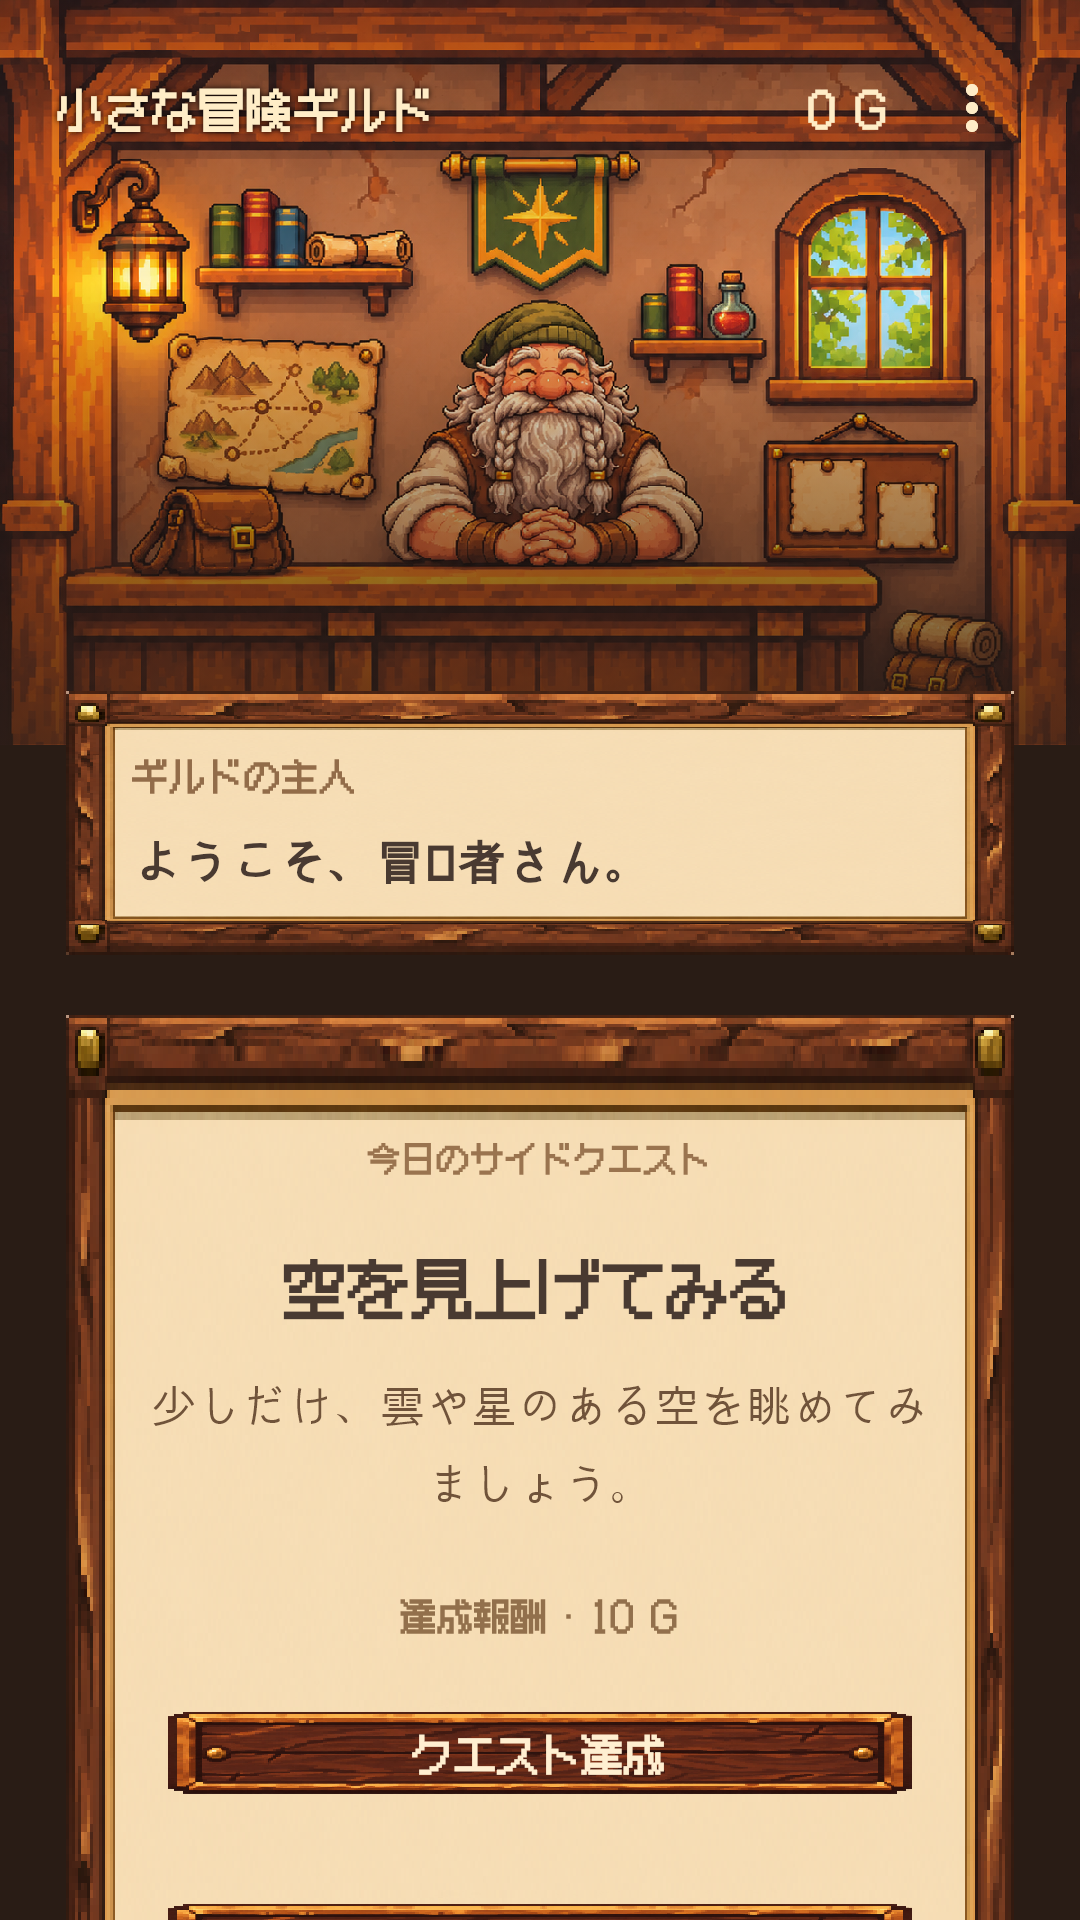
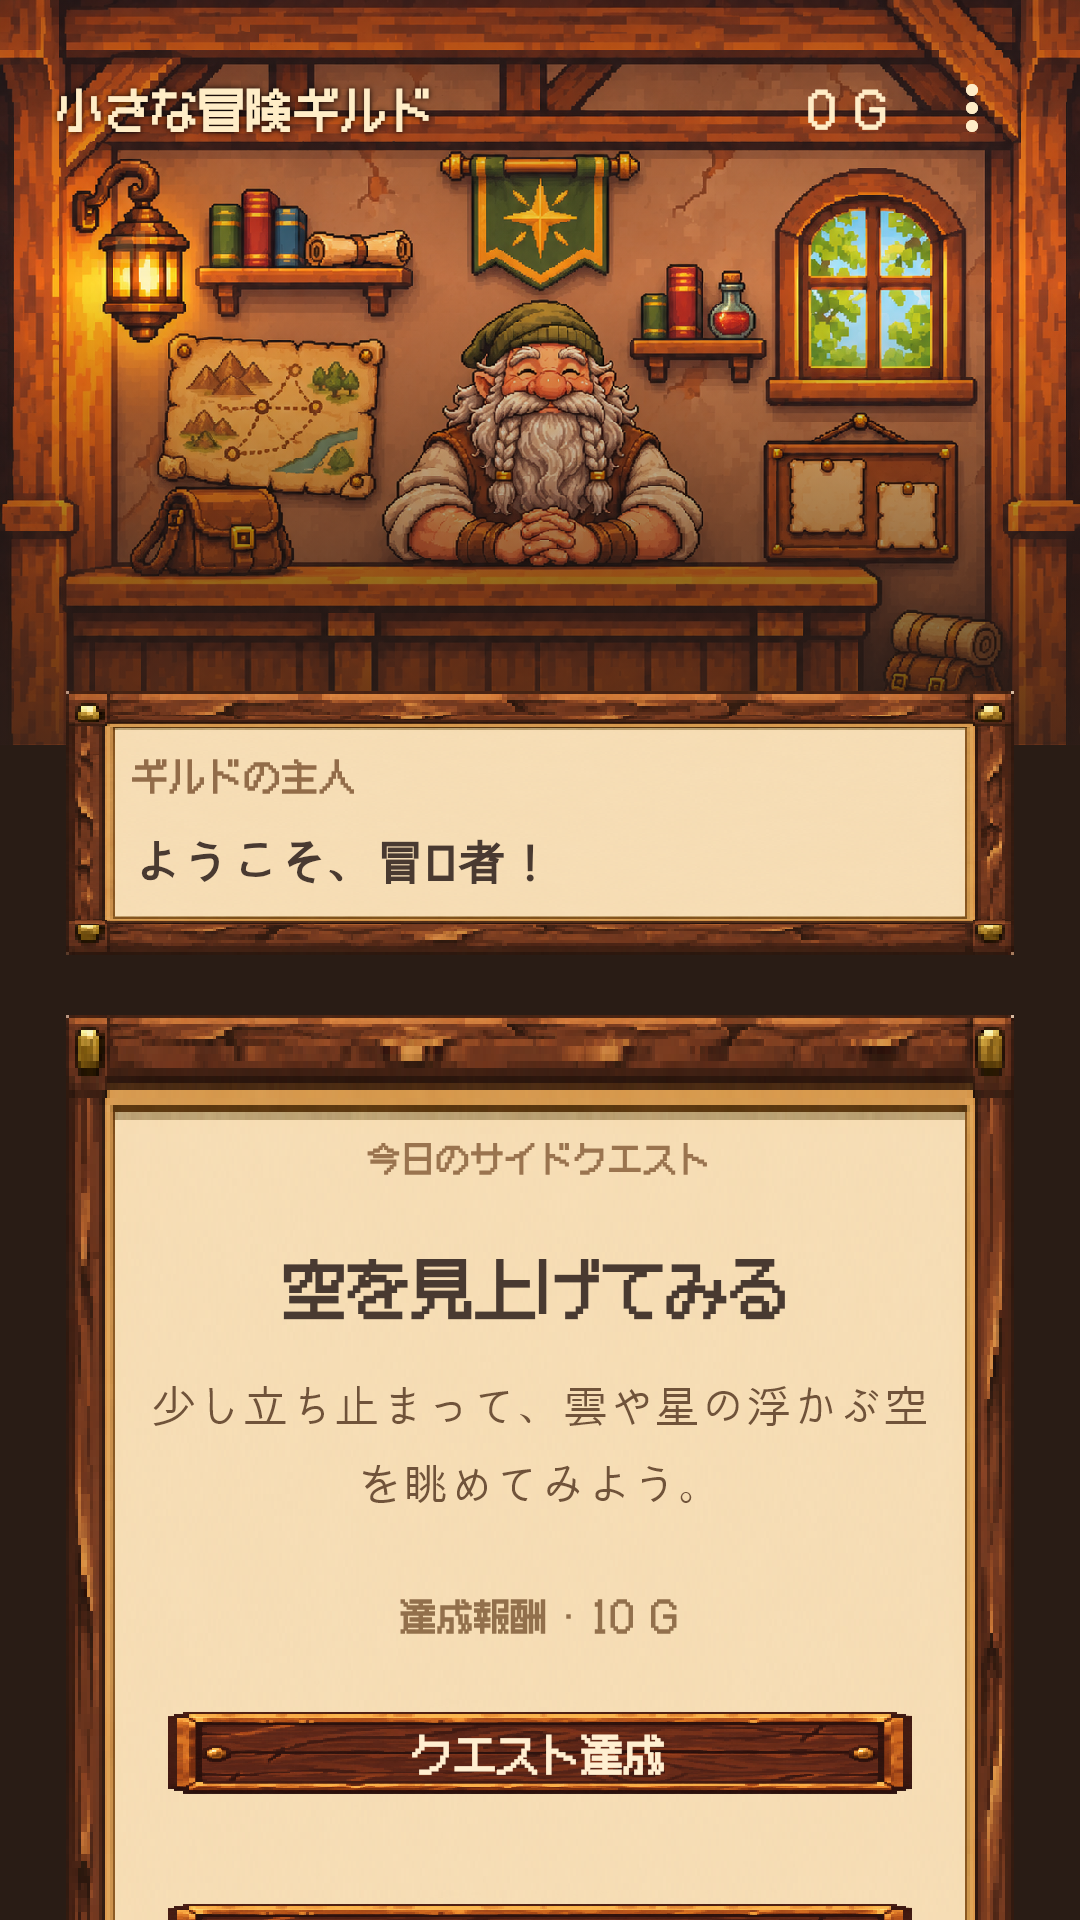
Use casual guild and quest dialogue

Changed region(s): [[0.2139, 0.7188, 0.8556, 0.7812], [0.4583, 0.4375, 0.55, 0.4688]]

diff --git a/lib/translations.dart b/lib/translations.dart
@@ -57,26 +57,26 @@ const translations = <String, Map<String, String>>{
     '기록을 저장하지 못했어요. 다시 시도해 주세요.':
         'Could not save your progress. Please try again.',
     '꾸미기 기록을 저장하지 못했어요.': 'Could not save your decorations.',
-    '어서 오세요, 모험가님.': 'Welcome, adventurer.',
+    '왔구나, 모험가!': 'Welcome, adventurer.',
     '잠시 하늘을 올려다보기': 'Look up at the sky',
-    '하루 중 잠깐, 구름이나 별이 있는 하늘을 바라보세요.':
+    '잠시 걸음을 멈추고 구름이나 별이 떠 있는 하늘을 바라봐.':
         'Take a moment to watch the clouds or stars.',
     '오래된 사진 꺼내 보기': 'Revisit an old photo',
-    '마음에 남아 있는 사진 한 장을 들여다보세요.':
+    '마음에 남은 오래된 사진 한 장을 꺼내 천천히 들여다봐.':
         'Spend a moment with a photo that means something to you.',
     '안부 한 줄 보내기': 'Send a little hello',
-    '생각나는 사람에게 가볍게 안부를 전해보세요.': 'Send a short hello to someone on your mind.',
-    '오, 새로운 모험가로군! 어서 오게. 여긴 바쁜 하루 속 작은 모험을 찾는 길드라네.':
+    '문득 떠오르는 사람에게 가볍게 안부를 전해 봐.': 'Send a short hello to someone on your mind.',
+    '오, 새로운 모험가로구나! 어서 와. 여긴 바쁜 하루 속 작은 모험을 찾는 길드야.':
         'Ah, a new adventurer! Welcome. This guild seeks little adventures in busy days.',
-    '매일 양피지 하나를 건네주지. 그 안에는 자네가 오늘 만날 수 있는 작은 의뢰가 적혀 있다네.':
+    '매일 양피지 하나를 건네줄게. 그 안에는 네가 오늘 만날 수 있는 작은 의뢰가 적혀 있어.':
         'Each day I’ll offer one scroll, holding one small quest for you to discover.',
-    '의뢰를 마쳤다면 퀘스트 완료를, 오늘은 못 했다면 퀘스트 실패를 눌러 주게. 못 해도 괜찮네. 길드는 언제나 열려 있으니까.':
+    '의뢰를 마쳤다면 퀘스트 완료를, 오늘은 못 했다면 퀘스트 실패를 눌러 줘. 못 해도 괜찮아. 길드는 언제나 열려 있으니까.':
         'Report your quest as complete or incomplete. If today is not the day, that’s fine. The guild is always open.',
-    '정말 마쳤는지 어떻게 아느냐고? 허허, 우리 길드에는 감시 마법이 없다네. 자네의 보고를 믿는 게 이곳의 오래된 규칙이지.':
+    '정말 마쳤는지 어떻게 아냐고? 허허, 우리 길드에는 감시 마법이 없어. 네 보고를 믿는 게 이곳의 오래된 규칙이지.':
         'How do we know you finished? Ha! We have no watching spells. Trusting your word is an old guild tradition.',
-    '의뢰를 완료하면 골드를 주겠네. 길드 메뉴의 꾸미기에서 모은 골드로 장식을 사고, 이곳에 놓을 수 있다네.':
+    '의뢰를 완료하면 골드를 줄게. 길드 메뉴의 꾸미기에서 모은 골드로 장식을 사고, 이곳에 놓을 수 있어.':
         'Complete a quest to earn gold. Use it in the guild menu to buy decorations and make this place your own.',
-    '자, 서두를 것 없네. 양피지를 열고 오늘의 작은 모험을 만나 보게나!':
+    '자, 서두를 필요 없어. 양피지를 열고 오늘의 작은 모험을 만나 봐!':
         'Now, no need to hurry. Open the scroll and meet today’s little adventure!',
   },
   'ja': {
@@ -129,24 +129,24 @@ const translations = <String, Map<String, String>>{
     '안내 진행 상태를 저장하지 못했어요. 다시 시도해 주세요.': '進行状況を保存できませんでした。もう一度お試しください。',
     '기록을 저장하지 못했어요. 다시 시도해 주세요.': '記録を保存できませんでした。もう一度お試しください。',
     '꾸미기 기록을 저장하지 못했어요.': '飾りの記録を保存できませんでした。',
-    '어서 오세요, 모험가님.': 'ようこそ、冒険者さん。',
+    '왔구나, 모험가!': 'ようこそ、冒険者！',
     '잠시 하늘을 올려다보기': '空を見上げてみる',
-    '하루 중 잠깐, 구름이나 별이 있는 하늘을 바라보세요.': '少しだけ、雲や星のある空を眺めてみましょう。',
+    '잠시 걸음을 멈추고 구름이나 별이 떠 있는 하늘을 바라봐.': '少し立ち止まって、雲や星の浮かぶ空を眺めてみよう。',
     '오래된 사진 꺼내 보기': '昔の写真を見てみる',
-    '마음에 남아 있는 사진 한 장을 들여다보세요.': '心に残る写真を一枚、眺めてみましょう。',
+    '마음에 남은 오래된 사진 한 장을 꺼내 천천히 들여다봐.': '心に残る古い写真を一枚、ゆっくり眺めてみよう。',
     '안부 한 줄 보내기': 'ひとこと挨拶を送る',
-    '생각나는 사람에게 가볍게 안부를 전해보세요.': '思い浮かんだ人に、気軽に挨拶を送りましょう。',
-    '오, 새로운 모험가로군! 어서 오게. 여긴 바쁜 하루 속 작은 모험을 찾는 길드라네.':
+    '문득 떠오르는 사람에게 가볍게 안부를 전해 봐.': 'ふと思い浮かんだ人に、気軽に挨拶を送ってみよう。',
+    '오, 새로운 모험가로구나! 어서 와. 여긴 바쁜 하루 속 작은 모험을 찾는 길드야.':
         'おお、新しい冒険者じゃな！ようこそ。ここは忙しい日々に小さな冒険を探すギルドじゃ。',
-    '매일 양피지 하나를 건네주지. 그 안에는 자네가 오늘 만날 수 있는 작은 의뢰가 적혀 있다네.':
+    '매일 양피지 하나를 건네줄게. 그 안에는 네가 오늘 만날 수 있는 작은 의뢰가 적혀 있어.':
         '毎日、巻物を一つ渡そう。そこには今日出会える小さな依頼が書かれておる。',
-    '의뢰를 마쳤다면 퀘스트 완료를, 오늘은 못 했다면 퀘스트 실패를 눌러 주게. 못 해도 괜찮네. 길드는 언제나 열려 있으니까.':
+    '의뢰를 마쳤다면 퀘스트 완료를, 오늘은 못 했다면 퀘스트 실패를 눌러 줘. 못 해도 괜찮아. 길드는 언제나 열려 있으니까.':
         '依頼を終えたら達成を、できなかったら未達成を押してくれ。できなくても大丈夫。ギルドはいつでも開いておる。',
-    '정말 마쳤는지 어떻게 아느냐고? 허허, 우리 길드에는 감시 마법이 없다네. 자네의 보고를 믿는 게 이곳의 오래된 규칙이지.':
+    '정말 마쳤는지 어떻게 아냐고? 허허, 우리 길드에는 감시 마법이 없어. 네 보고를 믿는 게 이곳의 오래된 규칙이지.':
         '本当に終えたかどうやって知るのかって？ほっほ、監視の魔法はない。報告を信じるのがこのギルドの古い決まりじゃ。',
-    '의뢰를 완료하면 골드를 주겠네. 길드 메뉴의 꾸미기에서 모은 골드로 장식을 사고, 이곳에 놓을 수 있다네.':
+    '의뢰를 완료하면 골드를 줄게. 길드 메뉴의 꾸미기에서 모은 골드로 장식을 사고, 이곳에 놓을 수 있어.':
         '依頼を達成すればゴールドを渡そう。メニューの「ギルドを飾る」で飾りを買い、ここに置けるぞ。',
-    '자, 서두를 것 없네. 양피지를 열고 오늘의 작은 모험을 만나 보게나!':
+    '자, 서두를 필요 없어. 양피지를 열고 오늘의 작은 모험을 만나 봐!':
         'さあ、急ぐことはない。巻物を開いて、今日の小さな冒険に出会っておいで！',
   }
 };

diff --git a/lib/guild_content.dart b/lib/guild_content.dart
@@ -2,22 +2,22 @@
 // 목록은 최소 한 개 이상 유지하세요. 퀘스트 순서를 변경하면 저장된 오늘의
 // 퀘스트가 달라질 수 있으므로, 공개 후에는 기존 항목을 유지하고 뒤에 추가하세요.
 const guildGreetings = <String>[
-  '어서 오세요, 모험가님.',
+  '왔구나, 모험가!',
 ];
 
 // 각 항목은 (제목, 설명)입니다.
 const quests = <(String, String)>[
-  ('잠시 하늘을 올려다보기', '하루 중 잠깐, 구름이나 별이 있는 하늘을 바라보세요.'),
-  ('오래된 사진 꺼내 보기', '마음에 남아 있는 사진 한 장을 들여다보세요.'),
-  ('안부 한 줄 보내기', '생각나는 사람에게 가볍게 안부를 전해보세요.'),
+  ('잠시 하늘을 올려다보기', '잠시 걸음을 멈추고 구름이나 별이 떠 있는 하늘을 바라봐.'),
+  ('오래된 사진 꺼내 보기', '마음에 남은 오래된 사진 한 장을 꺼내 천천히 들여다봐.'),
+  ('안부 한 줄 보내기', '문득 떠오르는 사람에게 가볍게 안부를 전해 봐.'),
 ];
 
 // 첫 실행에서 길드주인이 들려주는 안내입니다. 자유롭게 수정할 수 있습니다.
 const guildTutorial = <String>[
-  '오, 새로운 모험가로군! 어서 오게. 여긴 바쁜 하루 속 작은 모험을 찾는 길드라네.',
-  '매일 양피지 하나를 건네주지. 그 안에는 자네가 오늘 만날 수 있는 작은 의뢰가 적혀 있다네.',
-  '의뢰를 마쳤다면 퀘스트 완료를, 오늘은 못 했다면 퀘스트 실패를 눌러 주게. 못 해도 괜찮네. 길드는 언제나 열려 있으니까.',
-  '정말 마쳤는지 어떻게 아느냐고? 허허, 우리 길드에는 감시 마법이 없다네. 자네의 보고를 믿는 게 이곳의 오래된 규칙이지.',
-  '의뢰를 완료하면 골드를 주겠네. 길드 메뉴의 꾸미기에서 모은 골드로 장식을 사고, 이곳에 놓을 수 있다네.',
-  '자, 서두를 것 없네. 양피지를 열고 오늘의 작은 모험을 만나 보게나!',
+  '오, 새로운 모험가로구나! 어서 와. 여긴 바쁜 하루 속 작은 모험을 찾는 길드야.',
+  '매일 양피지 하나를 건네줄게. 그 안에는 네가 오늘 만날 수 있는 작은 의뢰가 적혀 있어.',
+  '의뢰를 마쳤다면 퀘스트 완료를, 오늘은 못 했다면 퀘스트 실패를 눌러 줘. 못 해도 괜찮아. 길드는 언제나 열려 있으니까.',
+  '정말 마쳤는지 어떻게 아냐고? 허허, 우리 길드에는 감시 마법이 없어. 네 보고를 믿는 게 이곳의 오래된 규칙이지.',
+  '의뢰를 완료하면 골드를 줄게. 길드 메뉴의 꾸미기에서 모은 골드로 장식을 사고, 이곳에 놓을 수 있어.',
+  '자, 서두를 필요 없어. 양피지를 열고 오늘의 작은 모험을 만나 봐!',
 ];

diff --git a/test/widget_test.dart b/test/widget_test.dart
@@ -1,3 +1,5 @@
+import 'package:little_adventure_guild/guild_content.dart';
+import 'package:little_adventure_guild/translations.dart';
 import 'package:flutter/widgets.dart';
 import 'package:flutter_test/flutter_test.dart';
 import 'package:shared_preferences/shared_preferences.dart';
@@ -112,7 +114,7 @@ void main() {
     SharedPreferences.setMockInitialValues({'language_override': 'ko'});
     await tester.pumpWidget(const GuildApp());
     await tester.pumpAndSettle();
-    expect(find.textContaining('새로운 모험가로군'), findsOneWidget);
+    expect(find.textContaining('새로운 모험가로구나'), findsOneWidget);
     expect(find.text('양피지 열기'), findsNothing);
     for (var i = 0; i < 5; i++) {
       await tester.ensureVisible(find.text('다음 이야기'));
@@ -182,5 +184,18 @@ void main() {
     await tester.pumpWidget(const GuildApp());
     await tester.pumpAndSettle();
     expect(find.text('Little Adventure Guild'), findsOneWidget);
+  });
+  test('인사와 튜토리얼 및 예시 퀘스트에 영어·일본어 번역이 있다', () {
+    final content = [
+      ...guildGreetings,
+      ...guildTutorial,
+      for (final q in quests) ...[q.$1, q.$2]
+    ];
+    for (final language in ['en', 'ja']) {
+      for (final source in content) {
+        expect(translations[language]!.containsKey(source), isTrue,
+            reason: '$language: $source');
+      }
+    }
   });
 }
